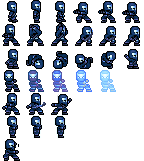
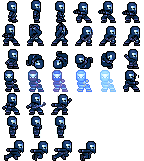
Added running.

diff --git a/lib/game/entities/player.js b/lib/game/entities/player.js
@@ -14,7 +14,6 @@ ig.module (
         
         name: 'Player',
         size: {x: 24, y: 23},
-        maxVel: {x: 50, y: 150},
 
         zIndex: 46,
         type: ig.Entity.TYPE.A,
@@ -42,6 +41,8 @@ ig.module (
         manaRegenRate: 0.01,
         _critHitChance: 0.1,
         _critHitDamage: 1.5,
+        _walkSpeed: 50,
+        _runSpeed: 100,
 
         // flags for internal use
         _disengageDelay: 6,
@@ -67,6 +68,7 @@ ig.module (
         },
 
         initAttributes: function() {
+            this.maxVel.x = this._walkSpeed;
             this.attackSpeed = this.activeWeapon ? (this._attackSpeed + this.activeWeapon._attackSpeed)/2 : this._attackSpeed;
         },
 
@@ -181,6 +183,19 @@ ig.module (
                     weapon.hide();
                 },
                 exit: function() {
+                }
+            });
+
+            this.stateMachine.state(this.State.RUNNING, {
+                enter: function() {
+                    self.state = self.State.RUNNING;
+                },
+                update: function() {
+                    self.running();
+                    weapon.hide();
+                },
+                exit: function() {
+                    self.maxVel.x = self._walkSpeed;
                 }
             });
 
@@ -408,6 +423,14 @@ ig.module (
                 return ig.input.pressed('block');
             });
 
+            this.stateMachine.transition('WalkToBlock', this.State.WALKING, this.State.BLOCK, function(){
+                return ig.input.pressed('block');
+            });
+
+            this.stateMachine.transition('RunToBlock', this.State.RUNNING, this.State.BLOCK, function(){
+                return ig.input.pressed('block');
+            });
+
             this.stateMachine.transition('BlockToIdle', this.State.BLOCK, this.State.IDLE, function(){
                 return self.blockTimer.delta() >= self.blockDelay;
             });
@@ -422,19 +445,53 @@ ig.module (
 
             this.stateMachine.transition('BlockToCasting', this.State.BLOCK, this.State.CASTING, function(){
                 return self.activeSpell != null;
-            })
+            });
+
+            this.stateMachine.transition('IdleToRun', this.State.IDLE, this.State.RUNNING, function(){
+                return self.maxVel.x == self._runSpeed;
+            });
+
+            this.stateMachine.transition('WalkToRun', this.State.WALKING, this.State.RUNNING, function(){
+                return self.maxVel.x == self._runSpeed;
+            });
+
+            this.stateMachine.transition('RunToIdle', this.State.RUNNING, this.State.IDLE, function(){
+                return !ig.input.state('left') && !ig.input.state('right');
+            });
+
+            this.stateMachine.transition('RunToJumpGround', this.State.RUNNING, this.State.JUMPGROUND, function(){
+                return self.standing && ig.input.pressed('jump');
+            });
+
+            this.stateMachine.transition('RunToAttackGround', this.State.RUNNING, this.State.ATTACKGROUND, function(){
+                return ig.input.pressed('attack') && (ig.input.state('left') || ig.input.state('right'));
+            });
+
+            this.stateMachine.transition('RunToFalling', this.State.RUNNING, this.State.FALLING, function(){
+                return !self.standing && self.vel.y > 50;
+            });
+
+            this.stateMachine.transition('RunToHurt', this.State.RUNNING, this.State.HURT, function(){
+                return self.state == self.State.HURT;
+            });
         },
         
         initCombos: function() {
             this.comboManager = new ComboManager();
+            var self = this;
 
-            this.comboManager.add(['left', 'left'], 1, function(){
-                console.log('RunLeft triggered');
+            this.comboManager.add(['left', 'left'], 0.5, function(){
+                self.maxVel.x = self._runSpeed;
             });
 
-            this.comboManager.add(['right', 'right'], 1, function(){
-                console.log('RunRight triggered');
+            this.comboManager.add(['right', 'right'], 0.5, function(){
+                self.maxVel.x = self._runSpeed;
             });
+        },
+
+        running: function() {
+            this.move();
+            this.currentAnim = this.anims.run;
         },
 
         cast: function() {

diff --git a/lib/game/entities/classes/ninja.js b/lib/game/entities/classes/ninja.js
@@ -54,13 +54,13 @@ ig.module (
         initAnimations: function() {
             this.addAnim('idle', 0.3, [3, 4, 5, 4]);
             this.addAnim('walk', 0.2, [0, 1, 2, 1]);
-            this.addAnim('run', 0.1, [0, 1, 2, 1]);
+            this.addAnim('run', 0.15, [36, 37, 38, 39]);
             this.addAnim('hurt', 0.02, [20, 21, 22, 21, 20, 19, 18], true);
             this.addAnim('jumpGround', 0.14, [12, 13, 14, 15, 16, 17], true);
             this.addAnim('fall', 1, [17], true);
             this.addAnim('attackGround', this.attackSpeed, [6, 7, 8, 9, 10, 11], true);
             this.addAnim('attackAir', this.attackSpeed, [6, 7, 8, 9, 10, 11], true);
-            this.addAnim('block', 1, [36], true);
+            this.addAnim('block', 1, [23], true);
             this.addAnim('cast', 0.1, [30, 30, 30, 31, 32, 32, 31, 30], true);
             this.addAnim('throw', 0.1, [24, 24, 25, 26, 26, 26], true);
 

diff --git a/lib/game/main.js b/lib/game/main.js
@@ -111,6 +111,24 @@ ig.module(
                 this.assets.font_default.draw(enemy.name, this.enemyHealthBar.pos.x, this.enemyHealthBar.pos.y - 8, ig.Font.ALIGN.LEFT);
             }
 
+            if (this.assets.font_default) {
+                this.assets.font_default.draw(
+                    'Basic       Move: W,A,S,D  ' +
+                    'Attack: J  ' +
+                    'Block: K',
+                    8,
+                    180-8-8,
+                    ig.Font.ALIGN.LEFT
+                );
+                this.assets.font_default.draw(
+                    'Advanced   Combo1: S->A/D->J  ' +
+                    'Combo2: K->S->J  ' +
+                    'Combo3: S->S->J',
+                    8,
+                    180-8,
+                    ig.Font.ALIGN.LEFT
+                );
+            }
 		},
 
         updateCamera: function() {

diff --git a/lib/game/entities/spells/shadowClone.js b/lib/game/entities/spells/shadowClone.js
@@ -63,12 +63,13 @@ ig.module (
 
             this.addAnim('idle', 0.3, [3, 4, 5, 4]);
             this.addAnim('walk', 0.2, [0, 1, 2, 1]);
-            this.addAnim('run', 0.1, [0, 1, 2, 1]);
+            this.addAnim('run', 0.1, [36, 37, 38, 39]);
             this.addAnim('hurt', 0.5, [18], true);
             this.addAnim('jumpGround', 0.14, [12, 13, 14, 15, 16, 17], true);
             this.addAnim('fall', 1, [17], true);
             this.addAnim('attackGround', this.attackSpeed, [6, 7, 8, 9, 10, 11], true);
             this.addAnim('attackAir', this.attackSpeed, [6, 7, 8, 9, 10, 11], true);
+            this.addAnim('block', 1, [23], true);
             this.addAnim('cast', 1, [30], true);
 
             this.anims.idle.timer = EntityPlayer.animationTimer;
